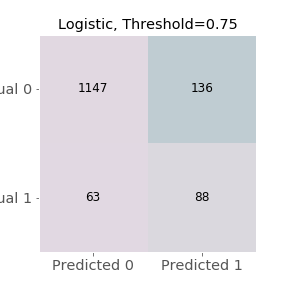
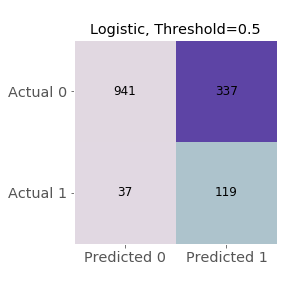
Update code and graphics for upsampling models

diff --git a/src/model_improvement.py b/src/model_improvement.py
@@ -1,15 +1,157 @@
 import numpy as np
 import pandas as pd
+import pickle
 
 import matplotlib.pyplot as plt
 %matplotlib inline
 plt.style.use('ggplot')
 import plotly.graph_objects as go
 
-
+from sklearn.pipeline import Pipeline
 from sklearn.preprocessing import MinMaxScaler
 from sklearn.utils import resample
-from sklearn.model_selection import train_test_split, KFold
+from sklearn.model_selection import train_test_split
 from sklearn.linear_model import LogisticRegression
 from sklearn.ensemble import RandomForestClassifier, GradientBoostingClassifier
-from sklearn.metrics import log_loss, roc_curve, roc_auc_score, confusion_matrix
+from sklearn.metrics import log_loss, roc_auc_score, confusion_matrix
+
+run src/clean.py
+
+scaler = MinMaxScaler()
+X_train, X_test, y_train, y_test = train_test_split(data,cardio_risk, random_state=42)
+X = pd.concat([X_train, y_train], axis=1)
+low_risk = X[X.cardio_risk==0]
+high_risk = X[X.cardio_risk==1]
+
+# upsample minority
+high_upsampled = resample(high_risk,
+                         replace=True, # sample with replacement
+                         n_samples=len(low_risk), # match number in majority class
+                         random_state=42) # reproducible results
+
+upsampled = pd.concat([low_risk, high_upsampled])
+y_train_upsampled = upsampled['cardio_risk']
+X_train_upsampled = upsampled.drop('cardio_risk', axis=1)
+X_train_upsampled_scaled, X_test_scaled = scaler.fit_transform(X_train_upsampled), scaler.transform(X_test)
+
+model_log = LogisticRegression(penalty='l1', solver='liblinear', max_iter=1000)
+model_log.fit(X_train_upsampled_scaled, y_train_upsampled)
+y_hat_log = model_log.predict_proba(X_test_scaled)
+log_loss(y_test, y_hat_log), roc_auc_score(y_test, y_hat_log[:,1])
+
+model_rf = RandomForestClassifier(n_estimators=1000, min_samples_split=10)
+model_rf.fit(X_train_upsampled, y_train_upsampled)
+y_hat_rf = model_rf.predict_proba(X_test)
+log_loss(y_test, y_hat_rf), roc_auc_score(y_test, y_hat_rf[:,1])
+
+model_gbc = GradientBoostingClassifier(n_estimators=1000, max_depth=2)
+model_gbc.fit(X_train_upsampled, y_train_upsampled)
+y_hat_gbc = model_gbc.predict_proba(X_test)
+log_loss(y_test, y_hat_gbc), roc_auc_score(y_test, y_hat_gbc[:,1])
+
+def get_ypred(y_true, y_pred, threshold=0.5):
+    '''
+    Takes output from predict_proba and returns class predictions at given threshold.
+    '''
+    y_thresh = [1 if y_pred[i,1] > threshold else 0 for i in range(len(y_pred))]
+    return np.array(y_thresh)
+
+cm = confusion_matrix(y_test, get_ypred(y_test, y_hat_log, 0.5))
+fig, ax = plt.subplots(figsize=(4, 4))
+ax.imshow(cm, cmap='twilight')
+ax.grid(False)
+ax.xaxis.set(ticks=(0, 1))
+ax.yaxis.set(ticks=(0, 1))
+ax.set_xticklabels(('Predicted 0', 'Predicted 1'), size='x-large')
+ax.set_yticklabels(('Actual 0', 'Actual 1'), size='x-large')
+ax.set_ylim(1.5, -0.5)
+ax.set_title('Logistic, Threshold=0.5')
+for i in range(2):
+    for j in range(2):
+        ax.text(j, i, cm[i, j], ha='center', va='center', color='black', size='large')
+fig.tight_layout()
+#plt.savefig('img/cf_log_upsample.png')
+plt.show()
+
+cm = confusion_matrix(y_test, get_ypred(y_test, y_hat_rf, 0.5))
+fig, ax = plt.subplots(figsize=(4, 4))
+ax.imshow(cm, cmap='twilight')
+ax.grid(False)
+ax.xaxis.set(ticks=(0, 1))
+ax.yaxis.set(ticks=(0, 1))
+ax.set_xticklabels(('Predicted 0', 'Predicted 1'), size='x-large')
+ax.set_yticklabels(('Actual 0', 'Actual 1'), size='x-large')
+ax.set_ylim(1.5, -0.5)
+ax.set_title('Random Forest, Threshold=0.5')
+for i in range(2):
+    for j in range(2):
+        ax.text(j, i, cm[i, j], ha='center', va='center', color='black', size='large')
+fig.tight_layout()
+#plt.savefig('img/cf_rf_upsample.png')
+plt.show()
+
+cm = confusion_matrix(y_test, get_ypred(y_test, y_hat_gbc, 0.5))
+fig, ax = plt.subplots(figsize=(4, 4))
+ax.imshow(cm, cmap='twilight')
+ax.grid(False)
+ax.xaxis.set(ticks=(0, 1))
+ax.yaxis.set(ticks=(0, 1))
+ax.set_xticklabels(('Predicted 0', 'Predicted 1'), size='x-large')
+ax.set_yticklabels(('Actual 0', 'Actual 1'), size='x-large')
+ax.set_ylim(1.5, -0.5)
+ax.set_title('Gradient Boost, Threshold=0.5')
+for i in range(2):
+    for j in range(2):
+        ax.text(j, i, cm[i, j], ha='center', va='center', color='black', size='large')
+fig.tight_layout()
+#plt.savefig('img/cf_gbc_upsample.png')
+plt.show()
+
+limited_features = data[['INDFMPIR', 'BPXPLS', 'SMD030', 'race_1.0', 'BMXBMI', 'DSDCOUNT', 'DBD895', 'race_6.0', 'race_4.0', 'race_3.0', 'race_2.0', 'milk_0.0', 'RIAGENDR', 'race_7.0', 'SMQ020', 'MCQ365C', 'BPQ020', 'PAQ710', 'MCQ300A', 'WHD140', 'RIDAGEYR']]
+
+X_train_limited, X_test_limited, y_train_limited, y_test_limited = train_test_split(limited_features,cardio_risk, stratify=cardio_risk, random_state=22)
+X_limited = pd.concat([X_train_limited, y_train_limited], axis=1)
+
+low_risk_limited = X_limited[X_limited.cardio_risk==0]
+high_risk_limited = X_limited[X_limited.cardio_risk==1]
+
+# upsample minority
+high_upsampled_limited = resample(high_risk_limited,
+                         replace=True, # sample with replacement
+                         n_samples=len(low_risk_limited), # match number in majority class
+                         random_state=42) # reproducible results
+
+
+upsampled_limited = pd.concat([low_risk_limited, high_upsampled_limited])
+y_train_upsampled_limited = upsampled_limited['cardio_risk']
+X_train_upsampled_limited = upsampled_limited.drop('cardio_risk', axis=1)
+
+model_limited = Pipeline([
+    ('scale', MinMaxScaler()),
+    ('log', LogisticRegression(penalty='l1', solver='liblinear', max_iter=1000))
+    ])
+model_limited.fit(X_train_upsampled_limited, y_train_upsampled_limited)
+y_hat_limited = model_limited.predict_proba(X_test_limited)
+log_loss(y_test_limited, y_hat_limited), roc_auc_score(y_test_limited, y_hat_limited[:,1])
+
+cm = confusion_matrix(y_test_limited, get_ypred(y_test_limited, y_hat_limited, 0.5))
+fig, ax = plt.subplots(figsize=(5, 5))
+ax.imshow(cm, cmap='twilight')
+ax.grid(False)
+ax.xaxis.set(ticks=(0, 1))
+ax.yaxis.set(ticks=(0, 1))
+ax.set_xticklabels(('Predicted Low', 'Predicted High'), size='x-large')
+ax.set_yticklabels(('Actual Low', 'Actual High'), size='x-large')
+ax.set_ylim(1.5, -0.5)
+ax.set_title('Logistic (Limited), Threshold=0.5')
+for i in range(2):
+    for j in range(2):
+        ax.text(j, i, cm[i, j], ha='center', va='center', color='black', size='large')
+
+fig.tight_layout()
+#plt.savefig('img/cf_log_upsample_limited.png')
+plt.show()
+
+# pickle_file = open('model.pickle', 'wb')
+# pickle.dump(model_limited, pickle_file)
+# pickle_file.close()
